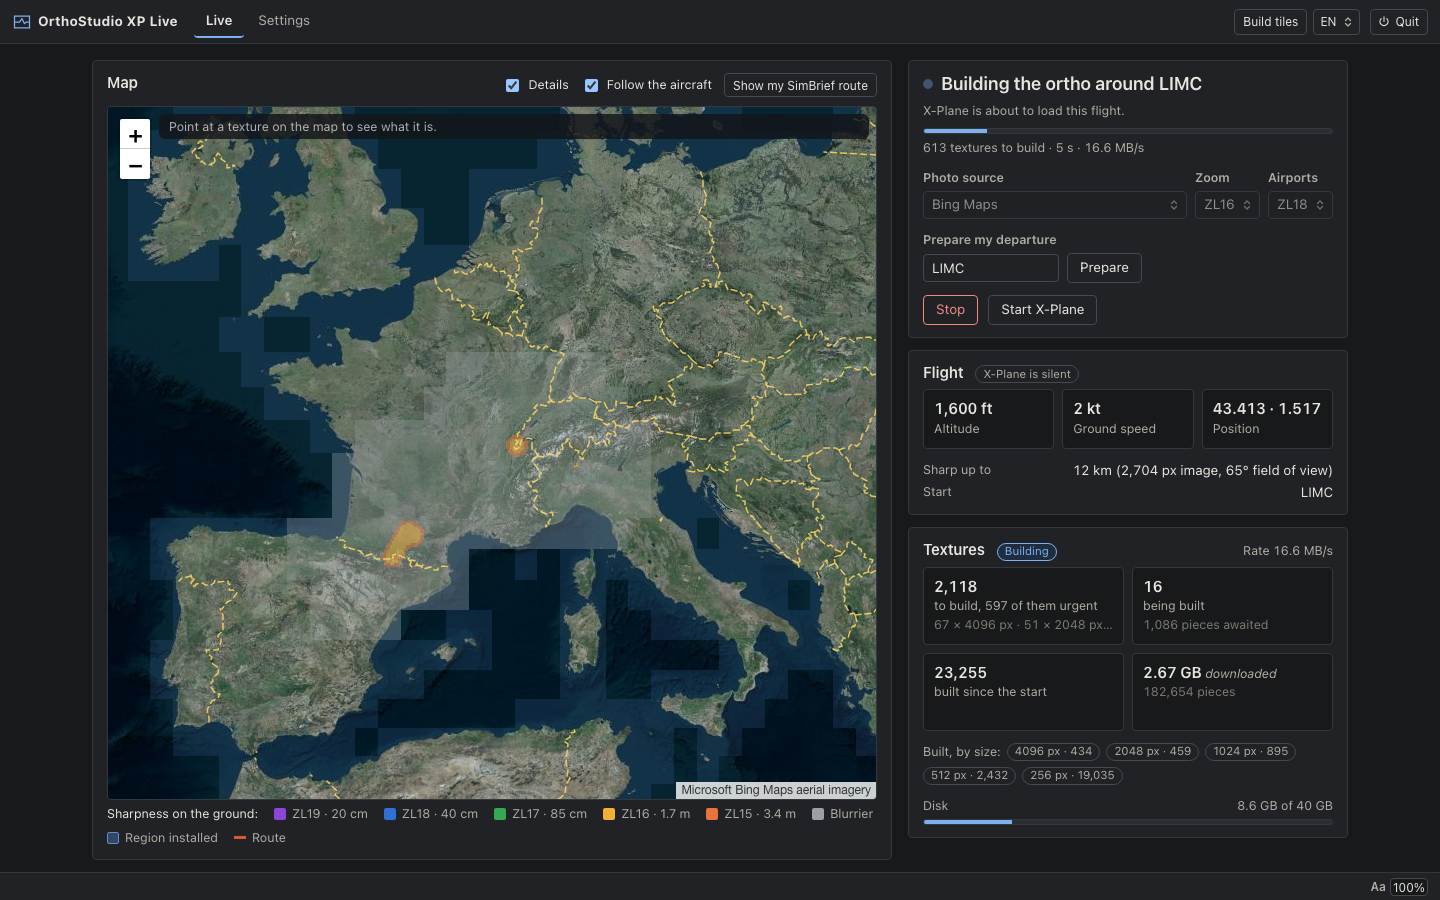
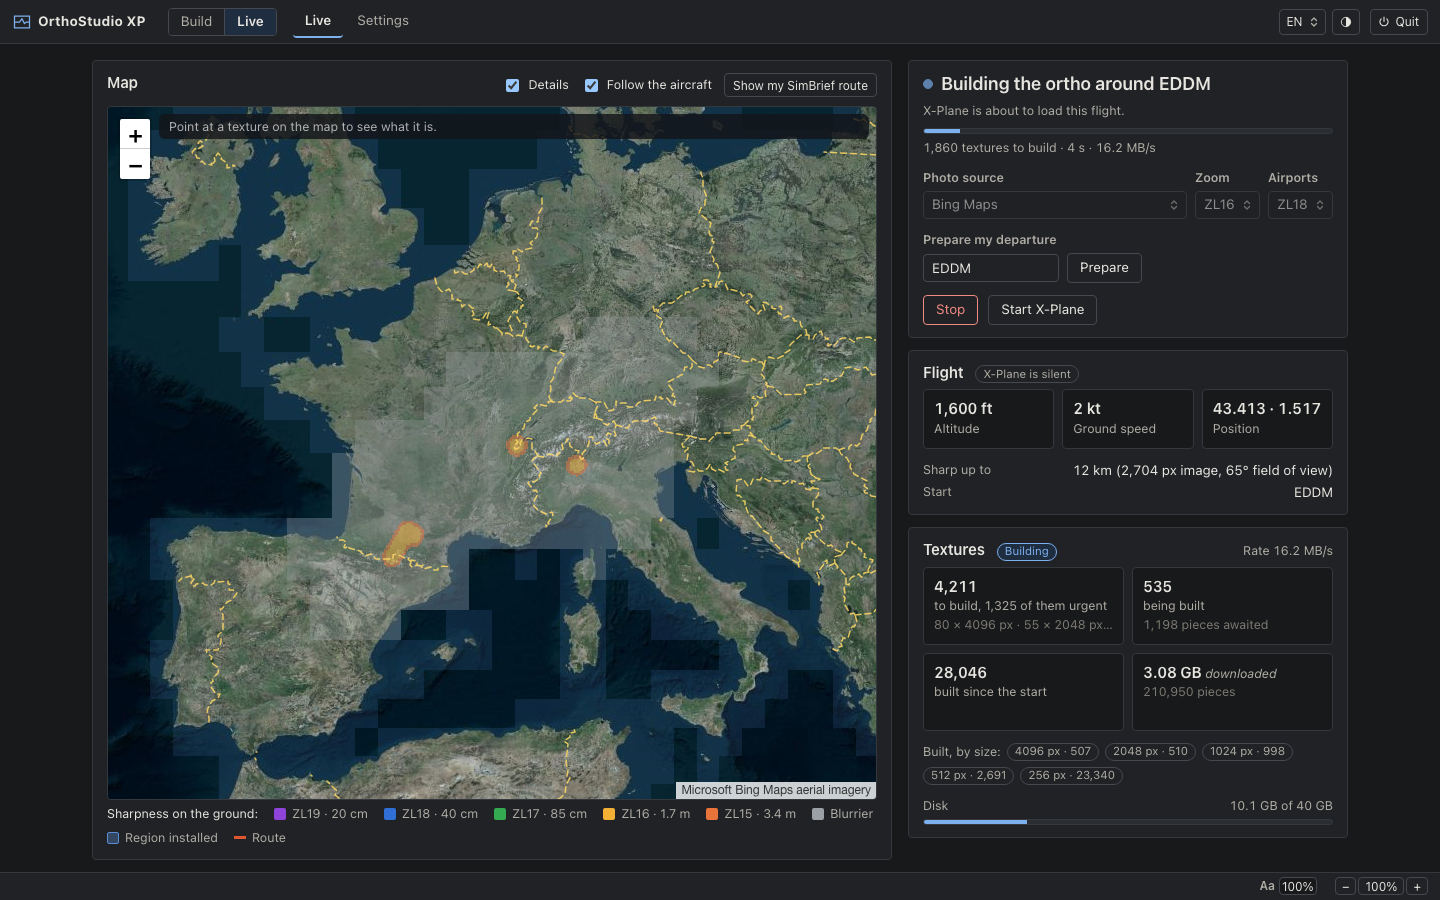
Live's guide shows the app's whole window in its screenshots, Build | Live at its top, as a pilot sees it

diff --git a/docs/live.md b/docs/live.md
@@ -119,7 +119,7 @@ slow disk).
    where you have flown before, a minute or two the first time in a new area. Live's window and a
    small panel over X-Plane count down the textures left, with the download rate. X-Plane's own
    window looks frozen meanwhile: it is waiting, it has not crashed.
-   ![Live preparing a departure from Milan: its state says it builds the ortho around LIMC, with a bar, the textures left, the seconds gone by and the download rate](images/live/departure.png)
+   ![Live preparing a departure from Munich: its state says it builds the ortho around EDDM, with a bar, the textures left, the seconds gone by and the download rate](images/live/departure.png)
 
 4. **Fly**, anywhere. Another flight started from X-Plane's menu waits the same way.
 5. **Quit X-Plane, then Stop.** Live takes its scenery and its small plugin out of X-Plane. Stopped
